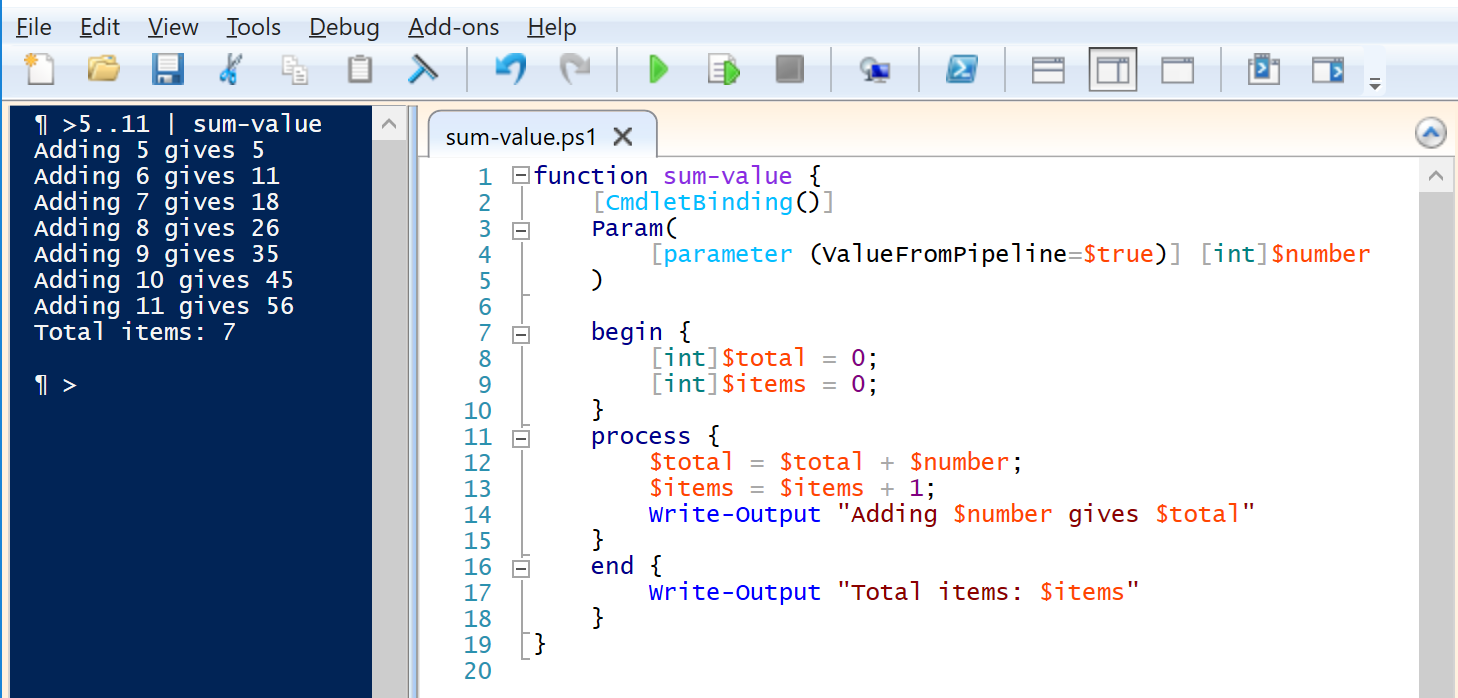
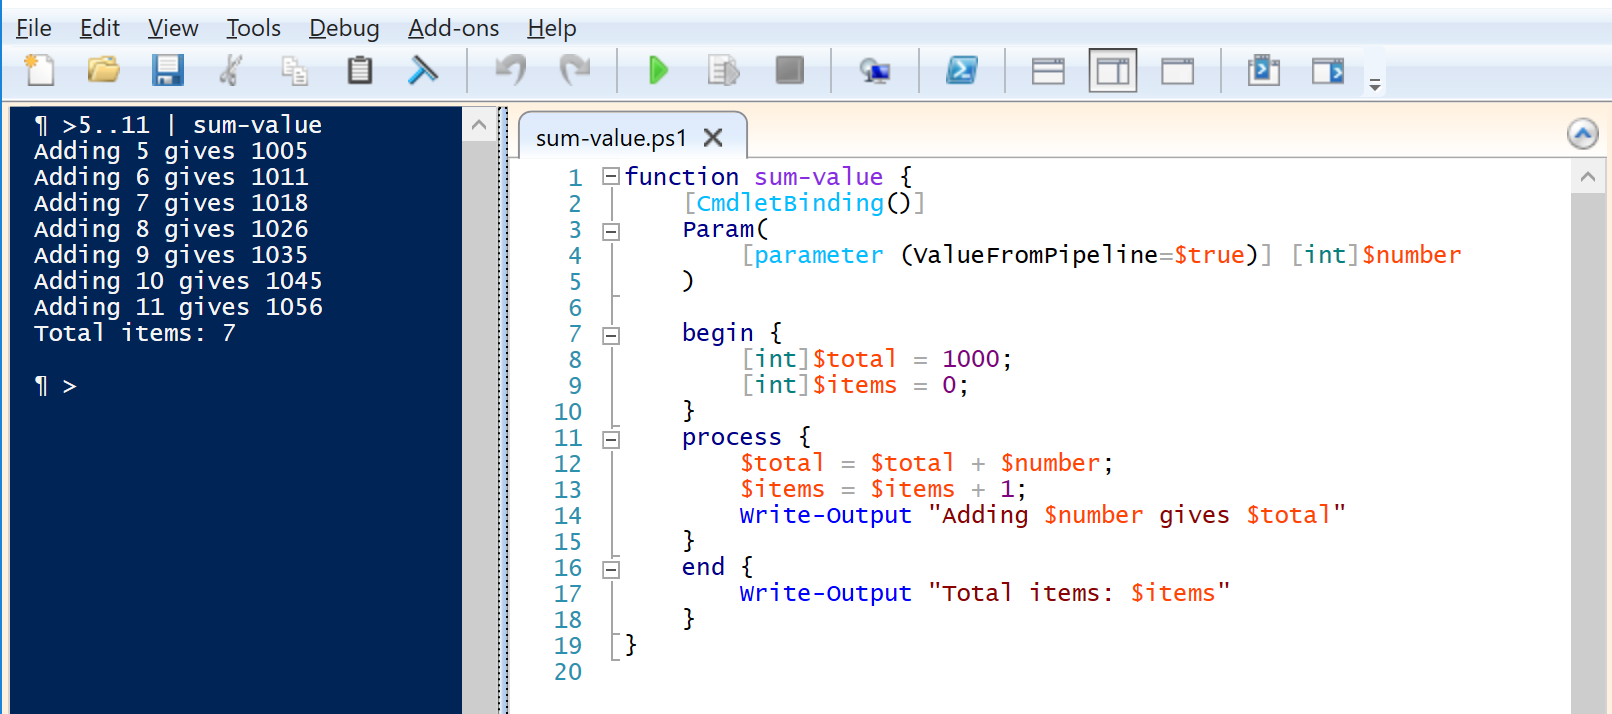
Writing Fundamental-Introduction in progress v3

Changed region(s): [[0.0, 0.0301, 1.0, 1.0], [0.0, 0.5115, 0.0617, 0.5716], [0.4012, 0.3911, 0.4321, 0.4212]]

diff --git a/scripting/getting-started/fundamental-introduction.md b/scripting/getting-started/fundamental-introduction.md
@@ -60,13 +60,15 @@ cmdlet and see: what's it made of and how are the pieces laid out.
 > Open your PowerShell ISE environment to better follow the rest of this section.
 >If you don't remember how to open ISE, check the [learners setup guide](basic-setup.md)
 
-
 >Note  
 >We're about to open a cmdlet; but, worry not if you don't understand everything
->you're seeing here; you'll be guided to look into the relevant parts first and
->helped to make all connections.  
->In the end you should have a full conceptual understanding of what is a cmdlet,
->how is that objects are handled and something new called pipeline.
+>you're seeing in here; you'll be guided to look into the relevant parts first
+>and helped to make all connections.  
+
+In the end you should have a full conceptual understanding of what is a cmdlet,
+how is that objects are handled and something new called pipeline.
+
+### *do-nothing*: the internals of a cmdlet
 
 ```                    
 function do-nothing {  
@@ -207,7 +209,9 @@ parts.
 If *begin* is a function that's executed at the beginning and it's only executed
 once, we could add two counters: (a) one to count the number of times the
 *process* section is invoked and (b) one to sum the numbers received from the
-previous command.
+previous command. To be sure this section is executed at the beginning and only
+once, let's set the value of the sum accumulator to 1,000; this way it will be
+easy to follow the initialization and the running sum.
 
 Similarly, if *end* is, also, a function that's executed at the end and it's
 only executed once; we could use the *end* section to show some results after
@@ -233,7 +237,7 @@ function sum-value {
     )
 
     begin {
-        [int]$total = 0;
+        [int]$total = 1000;
         [int]$items = 0;
     }
     process {
@@ -259,9 +263,59 @@ with *$total* and saving the result in *$total*; another way to say this, is
 to say that we have incremented *$total* by *$number*. Next, we incremented
 *$items* by 1. Finally, a message is written to show progress.
 
-In the *end* section we close with a written message of how many items where
+In the *end* section we close with a written message of how many items were
 received.
 
 Let's look at the execution.
 
 ![Sum-value executed portraying full usage of begin, process and end sections](sum-value-execution.png)
+
+The execution confirms what we guessed about the behavior of the cmdlet.
+
+The *begin* section was executed only one time, before any *process*; as the
+first run of the *process* shows the result of adding '*5*' gives '*1005*',
+which could only be true if *$total* was initialized to 1,000.
+
+Next, all subsequent invocations of *process* do not trigger the execution of
+*begin* because the running sum is a continuation of the previous value shown.
+
+Finally, the *end* section was invoked after all items from the range cmdlet
+were processed.
+
+So far, we have seen the anatomy of every cmdlet in PowerShell; regardless of
+how it was created, either compiled code or advanced function script. We have
+seen that cmdlets are command oriented instructions, that can take input from
+the script (in the form of parameters) or from the results of the execution of
+a previous cmdlet. Every cmdlet is a small program (function) tailored to execute
+a specific task; usually the name of the cmdlet '*verb-noun*' expresses the
+action and the subject upon which the action is taken, as in Get-Process.
+
+In scripting shell languages, the name of the place where results are placed for
+the next command to take them is ***pipeline***. This comes from the visualization
+of data being funneled from one command to the next through a plumbers pipe. The
+pipeline (as an object in shell scripting languages) is represented by the
+vertical bar symbol '**|**'. So, when we wrote `5..11 | sum-value`, we have
+explicitly connected the 'range' command to the 'sum-value' cmdlet through the
+pipeline.
+
+In PowerShell writing to the output is placing data in the pipeline. It is the
+responsibility of each cmdlet to put data in the pipeline; this can be
+done in any of the three (3) parts of the cmdlet (*begin*, *process*, *end*).
+
+Let's think a little bit about the last statement: "writing to the output is
+placing data in the pipeline". This means that our created cmdlet 'sum-value' is
+taking input from the pipeline and placing data in the pipeline for another
+command !? Is this right?
+
+Let's see it!!  
+If we write the following instructions in the *Console* pane and pressed **Enter**  
+>`5..11 | sum-value | Add-Content "C:\tmp\output.txt"`  
+
+We should be able to add content to the file 'output.txt' in the 'C:\\tmp'
+folder.
+
+![Combining three cmdlets through pipeline](Combining-three-cmdlets-through-pipeline.png)
+
+As shown in the image, the result of executing the Add-Content returns no
+results because the content taken from the pipeline is sent to the file. We had
+to restore to the "*type*" command to see the contents of the file.   
